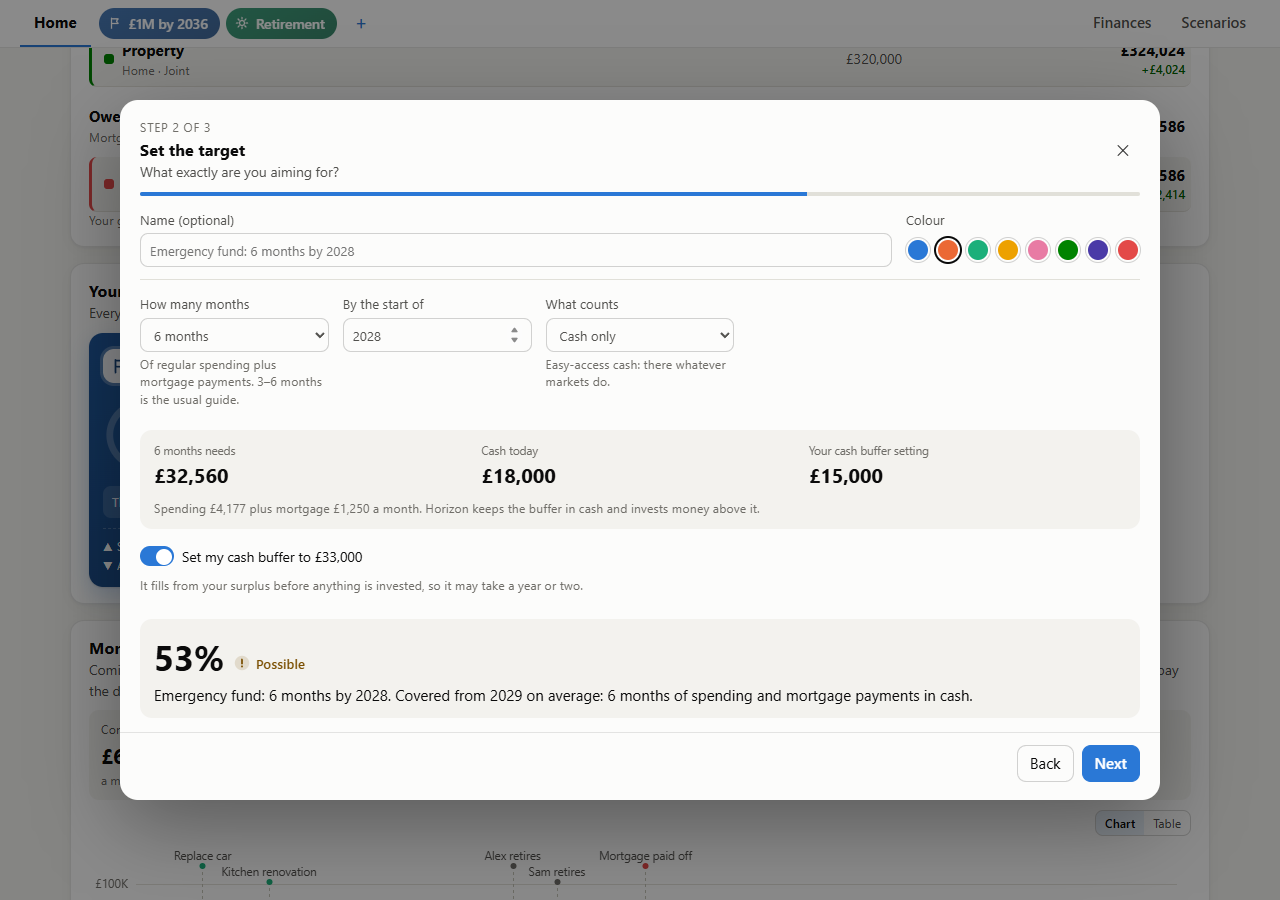
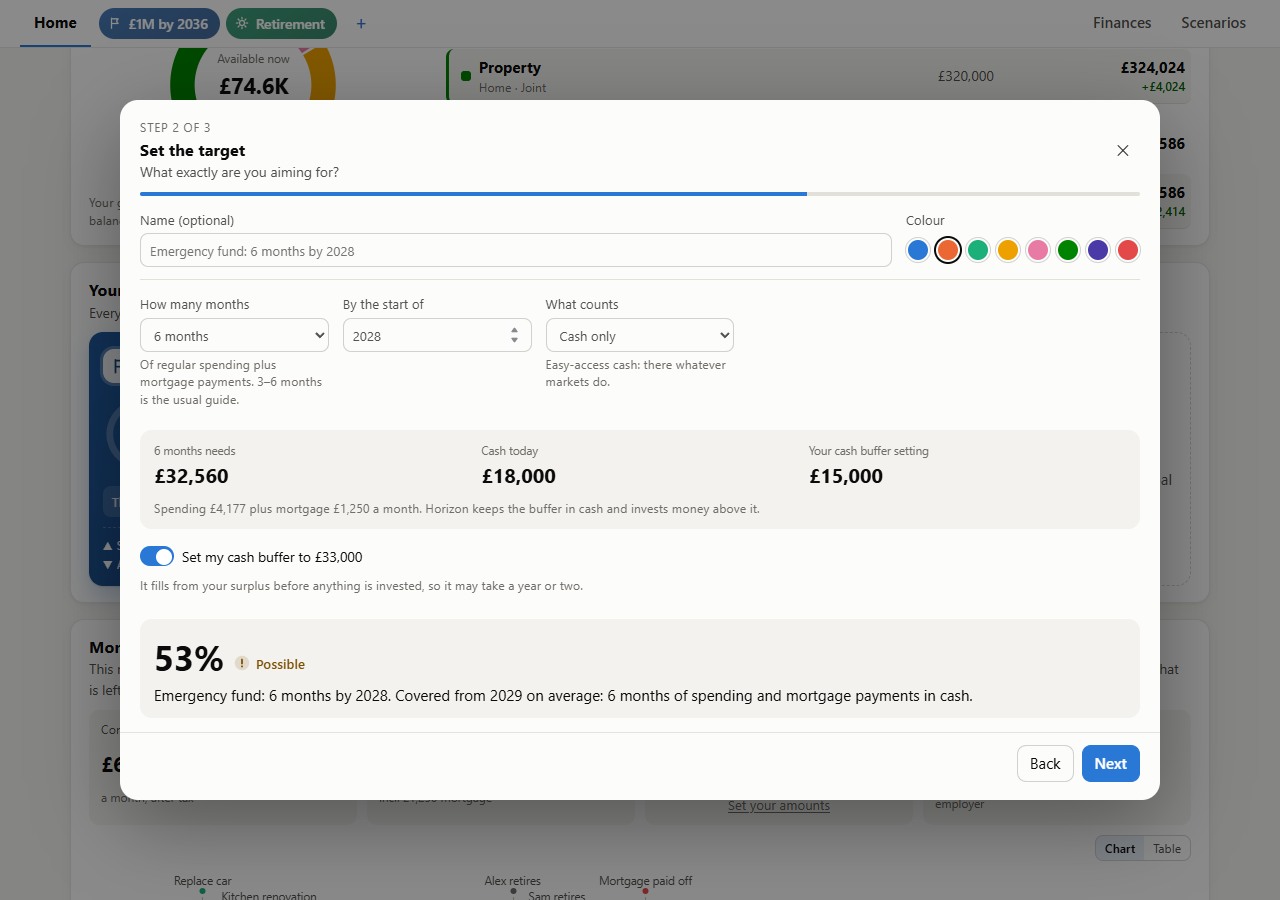
Home: less empty space
- Portfolio in two columns: net worth and the donut beside the account list.
- "Add a goal" is a slim tile at the end of the goals.
- What is left to save, and where it goes, is part of Money in and out instead of a
  separate card; pensions through payroll sit beside it.
- Suggestion cards size to their text.

diff --git a/src/app.js b/src/app.js
@@ -468,7 +468,8 @@
           h('p', { class: 'sub' }, days > 0
             ? `Estimated for today from your figures as at ${fmtDate(est.asOf)} (${sinceText(days)}), on average returns${readings ? `, with ${readings} balance${readings === 1 ? '' : 's'} you updated since` : ''}.`
             : `Your figures as at ${fmtDate(est.asOf)}. From here Horizon estimates each balance until your next review.`))),
-      h('div', { class: 'pf-top' },
+      h('div', { class: 'pf-body' },
+      h('div', { class: 'pf-side' },
         h('div', { class: 'pf-total' },
           h('div', { class: 'hero-label' }, 'Estimated net worth today'),
           h('div', { class: 'hero-value' }, money(est.netWorth)),
@@ -477,9 +478,9 @@
             : h('div', { class: `delta ${delta >= 0 ? 'pos' : 'neg'}` }, glyph(delta >= 0 ? 'trend' : 'trend-down'), `${delta >= 0 ? '+' : '−'}${money(Math.abs(delta))} since your last update (${fmtDate(lastUpdate)})`),
           readings && Math.abs(vsPlan) >= 1 ? h('div', { class: `delta vs-plan ${vsPlan >= 0 ? 'pos' : 'neg'}`, id: 'pfVsPlan' }, glyph(vsPlan >= 0 ? 'good' : 'warn'),
             `${money(Math.abs(vsPlan))} ${vsPlan >= 0 ? 'ahead of' : 'behind'} the plan on the ${readings} balance${readings === 1 ? '' : 's'} you updated`) : null),
-        h('div', { class: 'pf-mix' }, ring)),
-      list,
-      readings ? h('p', { class: 'hint' }, `Your goals still use the figures from ${fmtDate(est.asOf)}; the balances you updated feed into your next yearly review.`) : null,
+        h('div', { class: 'pf-mix' }, ring),
+        readings ? h('p', { class: 'hint' }, `Your goals still use the figures from ${fmtDate(est.asOf)}; the balances you updated feed into your next yearly review.`) : null),
+      list),
     ].filter(Boolean));
   }
 
@@ -686,7 +687,6 @@
   function renderHome() {
     renderPortfolio();
     renderGoalStrip();
-    renderMonthlyPlan();
     renderHomeChart();
     renderInOut();
     renderSuggestions();
@@ -3039,14 +3039,24 @@
     for (const x of people()) { const y = p.startYear + x.retireAge - x.age; if (y <= xs[xs.length - 1]) markers.push({ x: y, label: `${people().length > 1 ? `${x.name} retires` : 'Retire'}`, color: '--muted' }); }
     const m = x => money(x / 12);
     const out0 = now.everyday + now.future + now.oneOff + now.mortgage;
+    const mp = model.monthly;
+    const goes = [['Lifetime ISAs', mp.lisa], ['ISAs', mp.isa], ['General account', mp.gia], ['Mortgage overpayments', mp.overpay], ['Cash buffer', mp.cash]].filter(x => x[1] > 0.5);
+    const rows0 = model.proj.rows;
+    const dEnd = rows0.findIndex((r, t) => t > 0 && rows0[0].debt > 0.5 && r.debt <= 0.5);
+    const later = dEnd > 0 && dEnd < rows0.length - 1 ? rows0[dEnd] : null;
+    const laterSave = later ? (later.toIsa + later.toGia + (later.toLisa || 0) + later.overpay + later.toCash) / 12 / later.deflator : 0;
     const host = h('div', { class: 'chart', id: 'ovInOutChart' });
     setKids(box,
       h('div', { class: 'card-head' }, h('div', {}, h('h2', {}, 'Money in and out'),
-        h('p', { class: 'sub' }, `Coming in after tax and pension contributions (the line) against what goes out (the stack), on average, in ${unitLabel()}. Above the stack is what is left to save; below it, savings pay the difference.`))),
+        h('p', { class: 'sub' }, `This month, and over the years on average, in ${unitLabel()}: what comes in after tax and pension contributions (the line) against what goes out (the stack). Above the stack is what is left to save; below it, savings pay the difference.`))),
       h('div', { class: 'io-sum' },
-        h('div', { class: 'io-fig in' }, h('span', {}, 'Coming in'), h('strong', {}, m(now.inn)), h('small', {}, 'a month this year')),
+        h('div', { class: 'io-fig in' }, h('span', {}, 'Coming in'), h('strong', {}, m(now.inn)), h('small', {}, 'a month, after tax')),
         h('div', { class: 'io-fig out' }, h('span', {}, 'Going out'), h('strong', {}, m(out0)), h('small', {}, [now.mortgage > 0.5 ? `incl. ${m(now.mortgage)} mortgage` : null, now.oneOff > 0.5 ? `${m(now.oneOff)} one-offs` : null].filter(Boolean).join(', ') || 'spending')),
-        h('div', { class: `io-fig left ${now.left >= 0 ? 'pos' : 'neg'}` }, h('span', {}, now.left >= 0 ? 'Left to save' : 'From savings'), h('strong', {}, m(Math.abs(now.left))), h('small', {}, 'a month'))),
+        h('div', { class: `io-fig left ${now.left >= 0 ? 'pos' : 'neg'}` }, h('span', {}, now.left >= 0 ? 'Left to save' : 'From savings'), h('strong', {}, m(Math.abs(now.left))),
+          goes.length && now.left >= 0 ? h('ul', { class: 'io-goes' }, goes.map(([k, v]) => h('li', {}, h('span', {}, k), h('b', {}, money(v))))) : h('small', {}, 'a month'),
+          later && laterSave > 0.5 ? h('small', {}, `From ${later.year}, mortgage paid off: about ${money(laterSave)} a month`) : null,
+          h('button', { type: 'button', class: 'linkish', onclick: () => navigate('finances/saving') }, 'Set your amounts')),
+        mp.pension > 0.5 ? h('div', { class: 'io-fig pen' }, h('span', {}, 'Into pensions'), h('strong', {}, money(mp.pension)), h('small', {}, 'a month through payroll, you and your employer')) : null),
       host,
       h('div', { class: 'legend', id: 'ovInOutLegend' }));
     const c = new Chart(host, { height: 260, label: 'Money coming in and going out by year', name: 'money-in-out' });
@@ -4133,37 +4143,6 @@
     explorerValues = null;
     renderPlan();
     refresh();
-  }
-
-  // Home: how much to put away each month, where it goes, and what could be better.
-  function renderMonthlyPlan() {
-    const m = model.monthly, rows = model.proj.rows, r0 = rows[0];
-    const parts = [
-      ['Lifetime ISAs', m.lisa, '--s7', 'with the 25% bonus'],
-      ['ISAs', m.isa, '--s2', 'tax-free, available any time'],
-      ['General investment account', m.gia, '--s3', 'once ISAs are full'],
-      ['Pensions', m.pension, '--s4', 'through payroll: you and your employer'],
-      ['Mortgage overpayments', m.overpay, '--s8', null],
-      ['Cash buffer', m.cash, '--s1', 'topping up your emergency cash'],
-    ].filter(x => x[1] > 0.5);
-    const total = parts.reduce((acc, x) => acc + x[1], 0);
-    // When the mortgage ends, what was going on payments is free to save.
-    const debtEnd = rows.findIndex((r, t) => t > 0 && r0.debt > 0.5 && r.debt <= 0.5);
-    const later = debtEnd > 0 && debtEnd < rows.length - 1 ? rows[debtEnd + 0] : null;
-    const laterInvest = later ? (later.toIsa + later.toGia + (later.toLisa || 0) + later.overpay + later.toCash) / 12 / later.deflator : 0;
-    setKids($('#ovMonthly'),
-      h('div', { class: 'card-head' },
-        h('div', {}, h('h2', {}, 'What to put away each month'), h('p', { class: 'sub' }, `This year, from what is left after spending and mortgage payments, plus pensions through payroll.`)),
-        h('button', { type: 'button', class: 'btn small', onclick: () => navigate('finances/saving') }, 'Set your amounts')),
-      m.shortfall > 0
-        ? h('p', { class: 'mp-short' }, `Spending is ${money(m.shortfall)} a month more than comes in this year, so savings pay the difference.`)
-        : h('div', { class: 'mp-grid' },
-          h('div', { class: 'mp-total' }, h('span', { class: 'hero-label' }, 'In all'), h('strong', { class: 'hero-value' }, `${money(total)}`), h('small', {}, 'a month'),
-            later && laterInvest > 0.5 ? h('p', { class: 'hint' }, `From ${later.year}, with the mortgage paid off: about ${money(laterInvest)} a month to save, in today’s money.`) : null),
-          h('ul', { class: 'mp-parts' }, parts.map(([label, v, color, note]) => h('li', {},
-            h('i', { class: 'key square', style: `--key:${cssVar(color)}` }),
-            h('span', {}, h('strong', {}, label), note ? h('small', {}, note) : null),
-            h('span', { class: 'mp-amt' }, `${money(v)}`))))));
   }
 
   // A row of cards you swipe or step through, one or a few at a time (scroll-snap, arrows, dots).

diff --git a/src/styles.css b/src/styles.css
@@ -1342,6 +1342,25 @@ dialog#updateDlg::backdrop { background: rgba(0, 0, 0, 0.45); }
 .io-fig.left.neg strong { color: var(--bad-text); }
 @media (max-width: 640px) { .io-sum { grid-template-columns: 1fr 1fr; } .io-fig.left { grid-column: span 2; } .sum-row { grid-template-columns: 10px minmax(0, 1fr) auto; } .sum-edit { display: none; } }
 
+/* home layout: less empty space */
+.pf-body { display: grid; grid-template-columns: minmax(240px, 0.75fr) minmax(0, 1.7fr); gap: 28px; align-items: start; margin-top: 6px; }
+.pf-side { display: grid; gap: 14px; justify-items: start; position: sticky; top: 84px; }
+.pf-side .pf-mix { justify-self: center; }
+.pf-side .delta { margin-top: 4px; }
+.pf-body .pf-list { border-top: none; }
+@media (max-width: 900px) { .pf-body { grid-template-columns: 1fr; } .pf-side { position: static; justify-items: stretch; } }
+.goal-strip { display: flex; flex-wrap: wrap; }
+.goal-strip > .goal-tile { flex: 1 1 250px; }
+.goal-strip > .goal-tile.add { flex: 0 0 110px; min-height: 0; }
+.io-sum { grid-template-columns: repeat(auto-fit, minmax(170px, 1fr)); }
+.io-goes { list-style: none; margin: 4px 0 0; padding: 0; display: grid; gap: 1px; font-size: 0.78rem; color: var(--text-2); }
+.io-goes li { display: flex; justify-content: space-between; gap: 8px; }
+.io-goes b { font-weight: 600; color: var(--text); font-variant-numeric: tabular-nums; }
+.io-fig small + small { margin-top: 2px; }
+.sg-card { min-height: 0; }
+.sg-foot { margin-top: 2px; }
+@media (max-width: 640px) { .goal-strip { display: grid; } .io-fig.left { grid-column: auto; } }
+
 @media (prefers-reduced-motion: reduce) {
   *, *::before, *::after { transition: none !important; animation: none !important; }
 }

diff --git a/test/e2e/app.spec.js b/test/e2e/app.spec.js
@@ -881,11 +881,12 @@ test.describe('Horizon app', () => {
   });
 
   test('home: what to put away each month, and the guides', async ({ page }) => {
-    await expect(page.locator('#ovMonthly')).toContainText('What to put away each month');
-    await expect(page.locator('#ovMonthly .mp-parts')).toContainText('ISAs');
-    await expect(page.locator('#ovMonthly .mp-parts')).toContainText('Pensions');
+    // What is left to save, and where it goes, sits with money in and out.
+    await expect(page.locator('#ovInOut .io-fig.left .io-goes')).toContainText('ISAs');
+    await expect(page.locator('#ovInOut .io-fig.pen')).toContainText('Into pensions');
+    await expect(page.locator('#ovMonthly')).toHaveCount(0);
     // The example's mortgage ends after both retire, so there is no "from then" line.
-    await expect(page.locator('#ovMonthly')).not.toContainText('with the mortgage paid off');
+    await expect(page.locator('#ovInOut')).not.toContainText('mortgage paid off: about');
     // Guides not done yet are suggestions too; every guide is under "All guides".
     await expect(page.locator('#ovInsights [data-insight="guide-protection"]')).toContainText('Start');
     await expect(page.locator('#ovInsights [data-insight^="adv-pension"]')).toContainText('Pension for Alex');

diff --git a/index.html b/index.html
@@ -55,7 +55,6 @@
         <div class="goal-strip" id="ovGoalStrip"></div>
       </section>
       <section class="card" id="ovInOut"></section>
-      <section class="card" id="ovMonthly"></section>
       <section class="card" id="ovInsights"></section>
       <section class="card">
         <div class="card-head">
